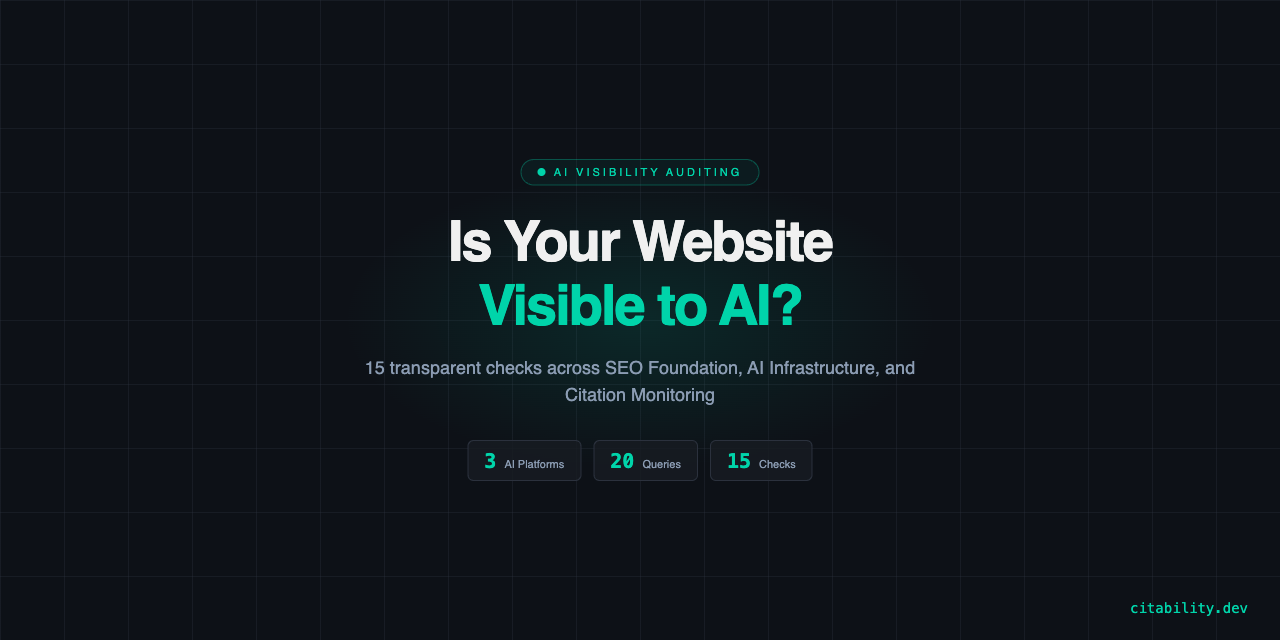
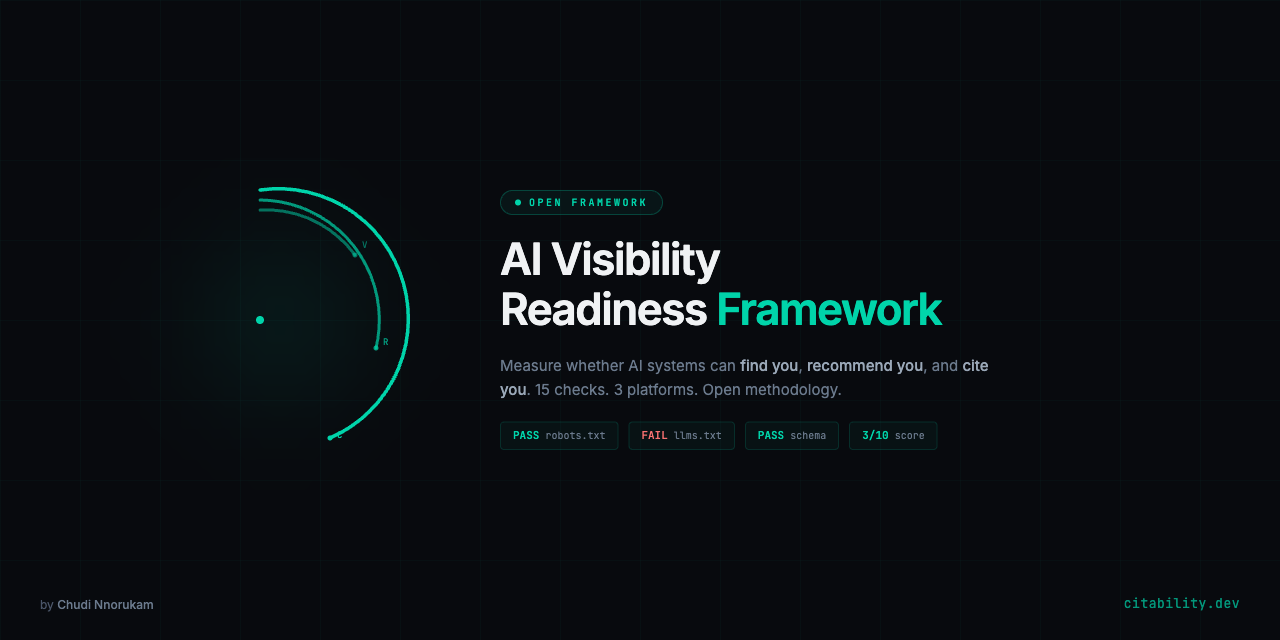
chore: upgraded social preview with three-arc mark
Three ascending arcs (V/R/C) represent the three pillars:
Visibility, Recommendability, Citability. PASS/FAIL pills
show sample audit output. Dark+teal branded, 1280x640.

diff --git a/social-preview.html b/social-preview.html
@@ -1,66 +1,176 @@
 <!DOCTYPE html>
 <html>
 <head>
+<link rel="preconnect" href="https://fonts.googleapis.com">
+<link href="https://fonts.googleapis.com/css2?family=Inter:wght@400;500;600;700&family=JetBrains+Mono:wght@400;500&display=swap" rel="stylesheet">
 <style>
   * { margin: 0; padding: 0; box-sizing: border-box; }
   body {
     width: 1280px; height: 640px;
-    background: #0d1117;
+    background: #080a0e;
     font-family: 'Inter', -apple-system, sans-serif;
-    display: flex; align-items: center; justify-content: center;
+    display: flex; align-items: center;
     overflow: hidden; position: relative;
   }
+
   .grid {
     position: absolute; inset: 0;
     background-image:
-      linear-gradient(rgba(48,54,68,0.3) 1px, transparent 1px),
-      linear-gradient(90deg, rgba(48,54,68,0.3) 1px, transparent 1px);
-    background-size: 64px 64px;
+      linear-gradient(rgba(0,212,170,0.03) 1px, transparent 1px),
+      linear-gradient(90deg, rgba(0,212,170,0.03) 1px, transparent 1px);
+    background-size: 80px 80px;
   }
-  .glow {
-    position: absolute; top: 50%; left: 50%;
-    transform: translate(-50%, -50%);
-    width: 600px; height: 300px;
-    background: radial-gradient(ellipse, rgba(0,212,170,0.12) 0%, transparent 70%);
+
+  .mark {
+    position: absolute;
+    left: 100px; top: 50%;
+    transform: translateY(-50%);
+    width: 320px; height: 320px;
   }
-  .content { position: relative; z-index: 1; text-align: center; }
+  .mark svg { width: 100%; height: 100%; }
+
+  .mark-glow {
+    position: absolute;
+    left: 140px; top: 50%;
+    transform: translateY(-50%);
+    width: 280px; height: 280px;
+    background: radial-gradient(circle, rgba(0,212,170,0.10) 0%, transparent 65%);
+    filter: blur(40px);
+  }
+
+  .content {
+    position: absolute;
+    left: 500px; top: 50%;
+    transform: translateY(-50%);
+    display: flex; flex-direction: column; gap: 20px;
+  }
+
   .badge {
     display: inline-flex; align-items: center; gap: 8px;
-    border: 1px solid rgba(0,212,170,0.3); background: rgba(0,212,170,0.05);
-    border-radius: 999px; padding: 6px 16px; margin-bottom: 24px;
+    border: 1px solid rgba(0,212,170,0.25);
+    background: rgba(0,212,170,0.06);
+    border-radius: 999px; padding: 5px 14px;
+    width: fit-content;
   }
-  .dot { width: 8px; height: 8px; border-radius: 50%; background: #00d4aa; }
-  .badge-text { font-size: 11px; color: #00d4aa; letter-spacing: 3px; text-transform: uppercase; font-weight: 500; }
-  h1 { font-size: 56px; color: #f0f0f0; font-weight: 600; line-height: 1.15; letter-spacing: -2px; margin-bottom: 16px; }
+  .badge-dot { width: 6px; height: 6px; border-radius: 50%; background: #00d4aa; }
+  .badge-text {
+    font-family: 'JetBrains Mono', monospace;
+    font-size: 10px; color: #00d4aa;
+    letter-spacing: 2.5px; text-transform: uppercase; font-weight: 500;
+  }
+
+  h1 {
+    font-size: 44px; color: #f0f2f4;
+    font-weight: 600; line-height: 1.12;
+    letter-spacing: -1.5px;
+    max-width: 620px;
+  }
   h1 span { color: #00d4aa; }
-  .sub { font-size: 18px; color: #8b9cb3; line-height: 1.5; max-width: 600px; margin: 0 auto 32px; }
-  .pills { display: flex; gap: 12px; justify-content: center; }
-  .pill {
-    display: flex; align-items: baseline; gap: 8px;
-    border: 1px solid rgba(48,54,68,0.8); background: rgba(22,27,34,0.8);
-    border-radius: 6px; padding: 8px 16px;
+
+  .sub {
+    font-size: 15px; color: #6b7a8d;
+    line-height: 1.6; max-width: 520px;
   }
-  .pill-num { font-size: 20px; font-weight: 700; color: #00d4aa; font-family: 'JetBrains Mono', monospace; }
-  .pill-label { font-size: 11px; color: #8b9cb3; }
-  .url { position: absolute; bottom: 24px; right: 32px; font-size: 14px; color: #00d4aa; font-family: 'JetBrains Mono', monospace; }
+  .sub strong { color: #9aa8b8; font-weight: 500; }
+
+  .pills { display: flex; gap: 10px; }
+  .pill {
+    display: flex; align-items: center; gap: 6px;
+    border: 1px solid rgba(0,212,170,0.15);
+    background: rgba(0,212,170,0.04);
+    border-radius: 4px; padding: 6px 12px;
+  }
+  .pill-check {
+    font-family: 'JetBrains Mono', monospace;
+    font-size: 11px; color: #00d4aa; font-weight: 500;
+  }
+  .pill-fail {
+    font-family: 'JetBrains Mono', monospace;
+    font-size: 11px; color: #f87171; font-weight: 500;
+  }
+  .pill-label {
+    font-family: 'JetBrains Mono', monospace;
+    font-size: 10px; color: #6b7a8d;
+  }
+
+  .url {
+    position: absolute; bottom: 28px; right: 40px;
+    font-family: 'JetBrains Mono', monospace;
+    font-size: 13px; color: #00d4aa; letter-spacing: 0.5px;
+    opacity: 0.7;
+  }
+
+  .author {
+    position: absolute; bottom: 28px; left: 40px;
+    font-family: 'Inter', sans-serif;
+    font-size: 12px; color: #4a5568;
+  }
+  .author strong { color: #6b7a8d; font-weight: 500; }
 </style>
 </head>
 <body>
   <div class="grid"></div>
-  <div class="glow"></div>
+  <div class="mark-glow"></div>
+
+  <div class="mark">
+    <svg viewBox="0 0 320 320" fill="none">
+      <!-- Arc 1: Visibility (smallest) -->
+      <path d="M 160 50 A 110 110 0 0 1 255 95"
+        stroke="#00d4aa" stroke-width="3" stroke-linecap="round" opacity="0.5"/>
+      <!-- Arc 2: Recommendability (medium) -->
+      <path d="M 160 40 A 120 120 0 0 1 276 188"
+        stroke="#00d4aa" stroke-width="3" stroke-linecap="round" opacity="0.7"/>
+      <!-- Arc 3: Citability (largest) -->
+      <path d="M 160 30 A 130 130 0 0 1 230 278"
+        stroke="#00d4aa" stroke-width="3.5" stroke-linecap="round" opacity="1"/>
+      <!-- Origin dot -->
+      <circle cx="160" cy="160" r="4" fill="#00d4aa"/>
+      <!-- End dots -->
+      <circle cx="255" cy="95" r="2.5" fill="#00d4aa" opacity="0.5"/>
+      <circle cx="276" cy="188" r="2.5" fill="#00d4aa" opacity="0.7"/>
+      <circle cx="230" cy="278" r="2.5" fill="#00d4aa" opacity="1"/>
+      <!-- Arc labels -->
+      <text x="262" y="88" fill="#00d4aa" font-family="JetBrains Mono, monospace" font-size="9" opacity="0.5">V</text>
+      <text x="283" y="185" fill="#00d4aa" font-family="JetBrains Mono, monospace" font-size="9" opacity="0.7">R</text>
+      <text x="237" y="278" fill="#00d4aa" font-family="JetBrains Mono, monospace" font-size="9" opacity="1">C</text>
+    </svg>
+  </div>
+
   <div class="content">
     <div class="badge">
-      <div class="dot"></div>
-      <span class="badge-text">AI Visibility Auditing</span>
+      <div class="badge-dot"></div>
+      <span class="badge-text">Open Framework</span>
     </div>
-    <h1>Is Your Website<br><span>Visible to AI?</span></h1>
-    <p class="sub">15 transparent checks across SEO Foundation, AI Infrastructure, and Citation Monitoring</p>
+
+    <h1>AI Visibility<br>Readiness <span>Framework</span></h1>
+
+    <p class="sub">
+      Measure whether AI systems can <strong>find you</strong>,
+      <strong>recommend you</strong>, and <strong>cite you</strong>.
+      15 checks. 3 platforms. Open methodology.
+    </p>
+
     <div class="pills">
-      <div class="pill"><span class="pill-num">3</span><span class="pill-label">AI Platforms</span></div>
-      <div class="pill"><span class="pill-num">20</span><span class="pill-label">Queries</span></div>
-      <div class="pill"><span class="pill-num">15</span><span class="pill-label">Checks</span></div>
+      <div class="pill">
+        <span class="pill-check">PASS</span>
+        <span class="pill-label">robots.txt</span>
+      </div>
+      <div class="pill">
+        <span class="pill-fail">FAIL</span>
+        <span class="pill-label">llms.txt</span>
+      </div>
+      <div class="pill">
+        <span class="pill-check">PASS</span>
+        <span class="pill-label">schema</span>
+      </div>
+      <div class="pill">
+        <span class="pill-check">3/10</span>
+        <span class="pill-label">score</span>
+      </div>
     </div>
   </div>
+
   <span class="url">citability.dev</span>
+  <span class="author">by <strong>Chudi Nnorukam</strong></span>
 </body>
 </html>
